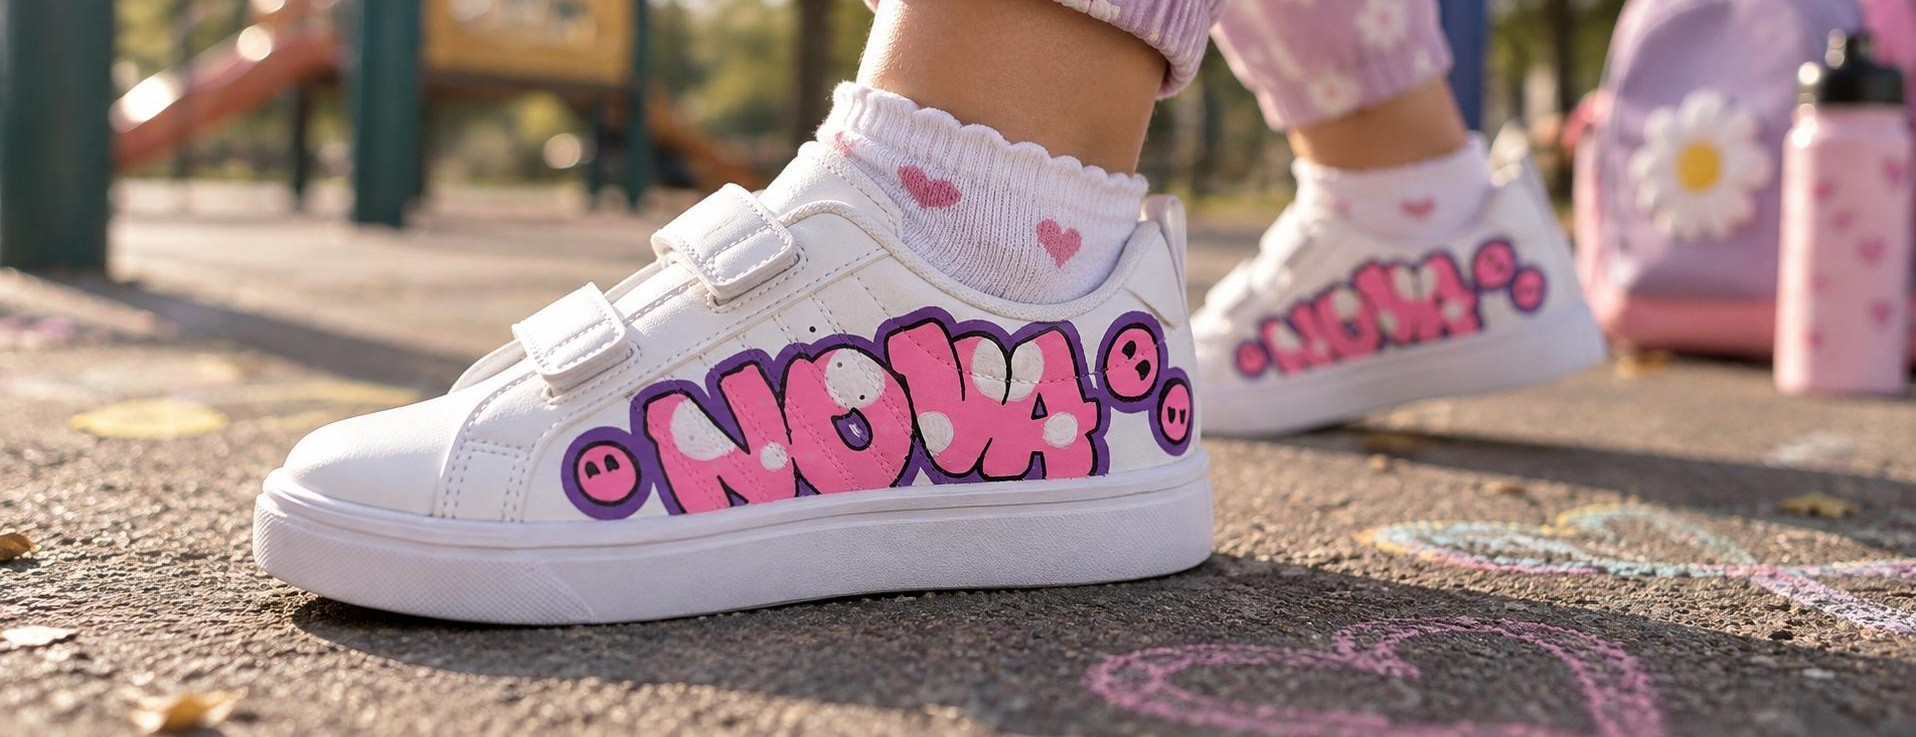
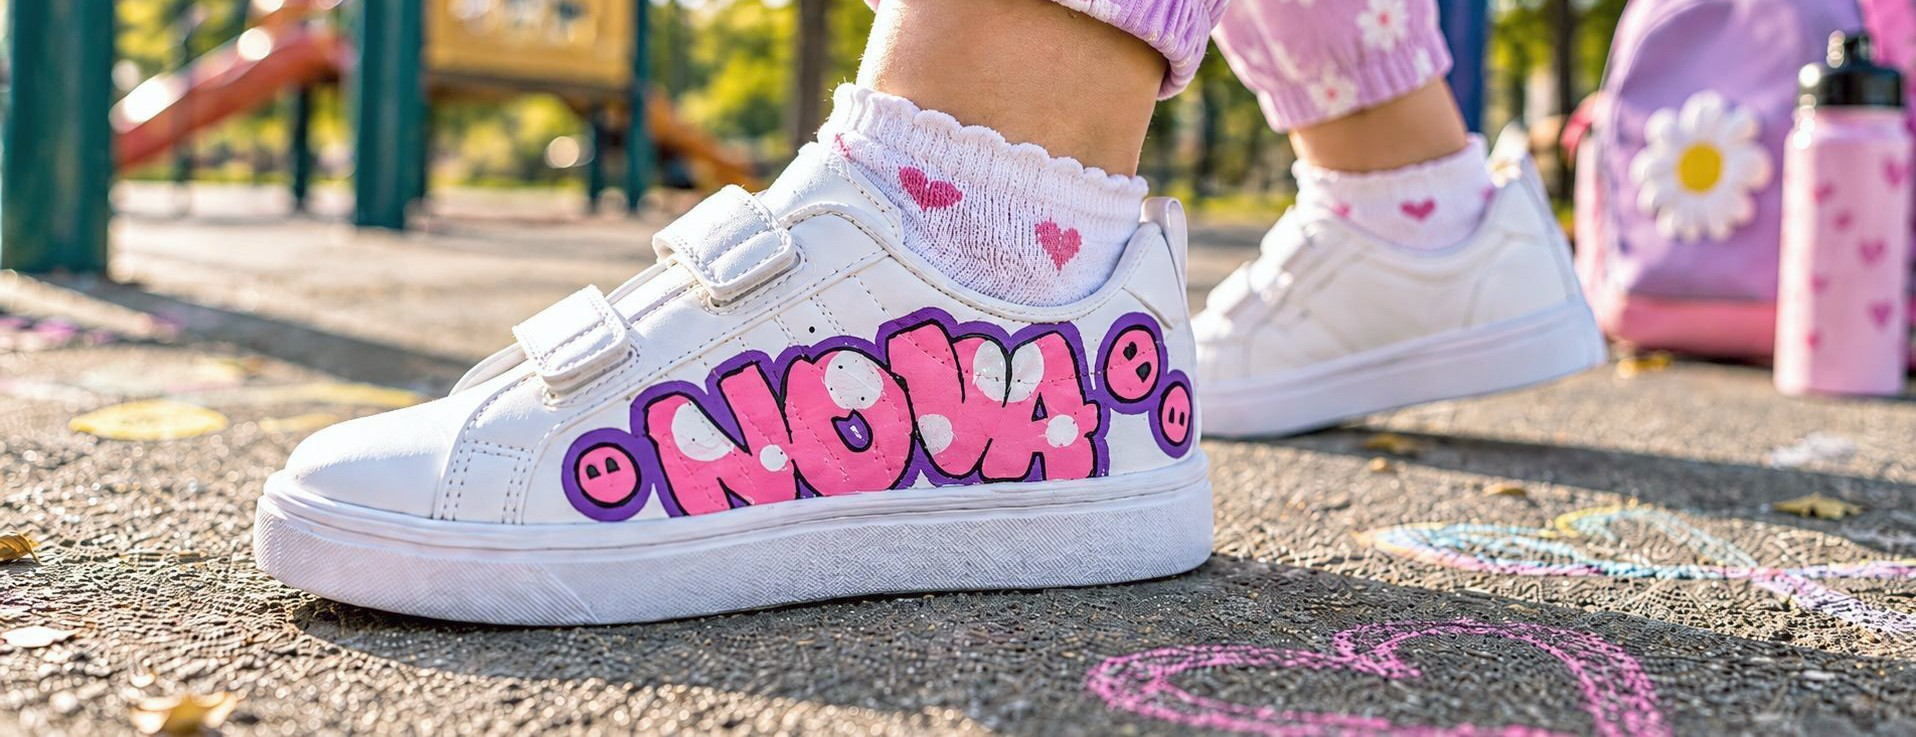
feat: swap in new Nova photo, drop magenta, remove remaining arrows
Nova: replaced with the newer, cleaner shot uploaded ("Media (44).jpg")
— same filenames, so no lib/data.ts changes needed, just re-cropped the
-hero variant from the new source.

WORD_COLOURS: dropped 'magenta' — the marker set doesn't actually have
a separate magenta, it was double-counted against pink/red when
matching the reference photo earlier.

Removed the last remaining arrow glyphs site-wide (previously only
lime buttons were done): sign-in's "Use a different email", and
checkout's "Back to my design" / "Back" buttons (all on btn-outline,
not lime).

Claude-Session: https://claude.ai/code/session_01MMtwqxye4YQux3mpkjgBvb

diff --git a/app/checkout/CheckoutClient.tsx b/app/checkout/CheckoutClient.tsx
@@ -239,7 +239,7 @@ export default function CheckoutClient() {
 
               <div style={{ display: 'flex', gap: 10, flexWrap: 'wrap' }}>
                 <Link href="/create-your-own" className="btn btn-outline">
-                  ← Back to my design
+                  Back to my design
                 </Link>
                 <button className="btn btn-lime" disabled={!allSized} onClick={() => setAdded(true)}>
                   Add to basket
@@ -278,7 +278,7 @@ export default function CheckoutClient() {
               </div>
 
               <div style={{ display: 'flex', gap: 10, marginTop: 28, flexWrap: 'wrap' }}>
-                <button className="btn btn-outline" onClick={() => setStep('bag')}>← Back</button>
+                <button className="btn btn-outline" onClick={() => setStep('bag')}>Back</button>
                 <button
                   className="btn btn-lime"
                   disabled={!name || !email || !address || !city || !postcode}
@@ -318,7 +318,7 @@ export default function CheckoutClient() {
               {payError && <p style={{ color: '#b3261e', marginBottom: 16 }}>{payError}</p>}
 
               <div style={{ display: 'flex', gap: 10, flexWrap: 'wrap' }}>
-                <button className="btn btn-outline" onClick={() => setStep('delivery')}>← Back</button>
+                <button className="btn btn-outline" onClick={() => setStep('delivery')}>Back</button>
                 <button className="btn btn-lime" onClick={submitPayment} disabled={submitting}>
                   {submitting ? 'Redirecting to secure payment…' : 'Continue to secure payment'}
                 </button>

diff --git a/lib/data.ts b/lib/data.ts
@@ -83,7 +83,6 @@ export const WORD_COLOURS: WordColour[] = [
   { id: 'sky', value: '#4aa8ff', label: 'Sky blue' },
   { id: 'blue', value: '#1f4fd8', label: 'Blue' },
   { id: 'purple', value: 'oklch(0.52 0.22 305)', label: 'Purple' },
-  { id: 'magenta', value: '#d81b8c', label: 'Magenta' },
   { id: 'pink', value: '#ff7ab8', label: 'Pink' },
   { id: 'red', value: '#e02a1b', label: 'Red' },
   { id: 'gold', value: '#e8b400', label: 'Gold' }

diff --git a/app/sign-in/page.tsx b/app/sign-in/page.tsx
@@ -113,7 +113,7 @@ function SignInInner() {
               setError('');
             }}
           >
-            ← Use a different email
+            Use a different email
           </button>
         </form>
       )}
